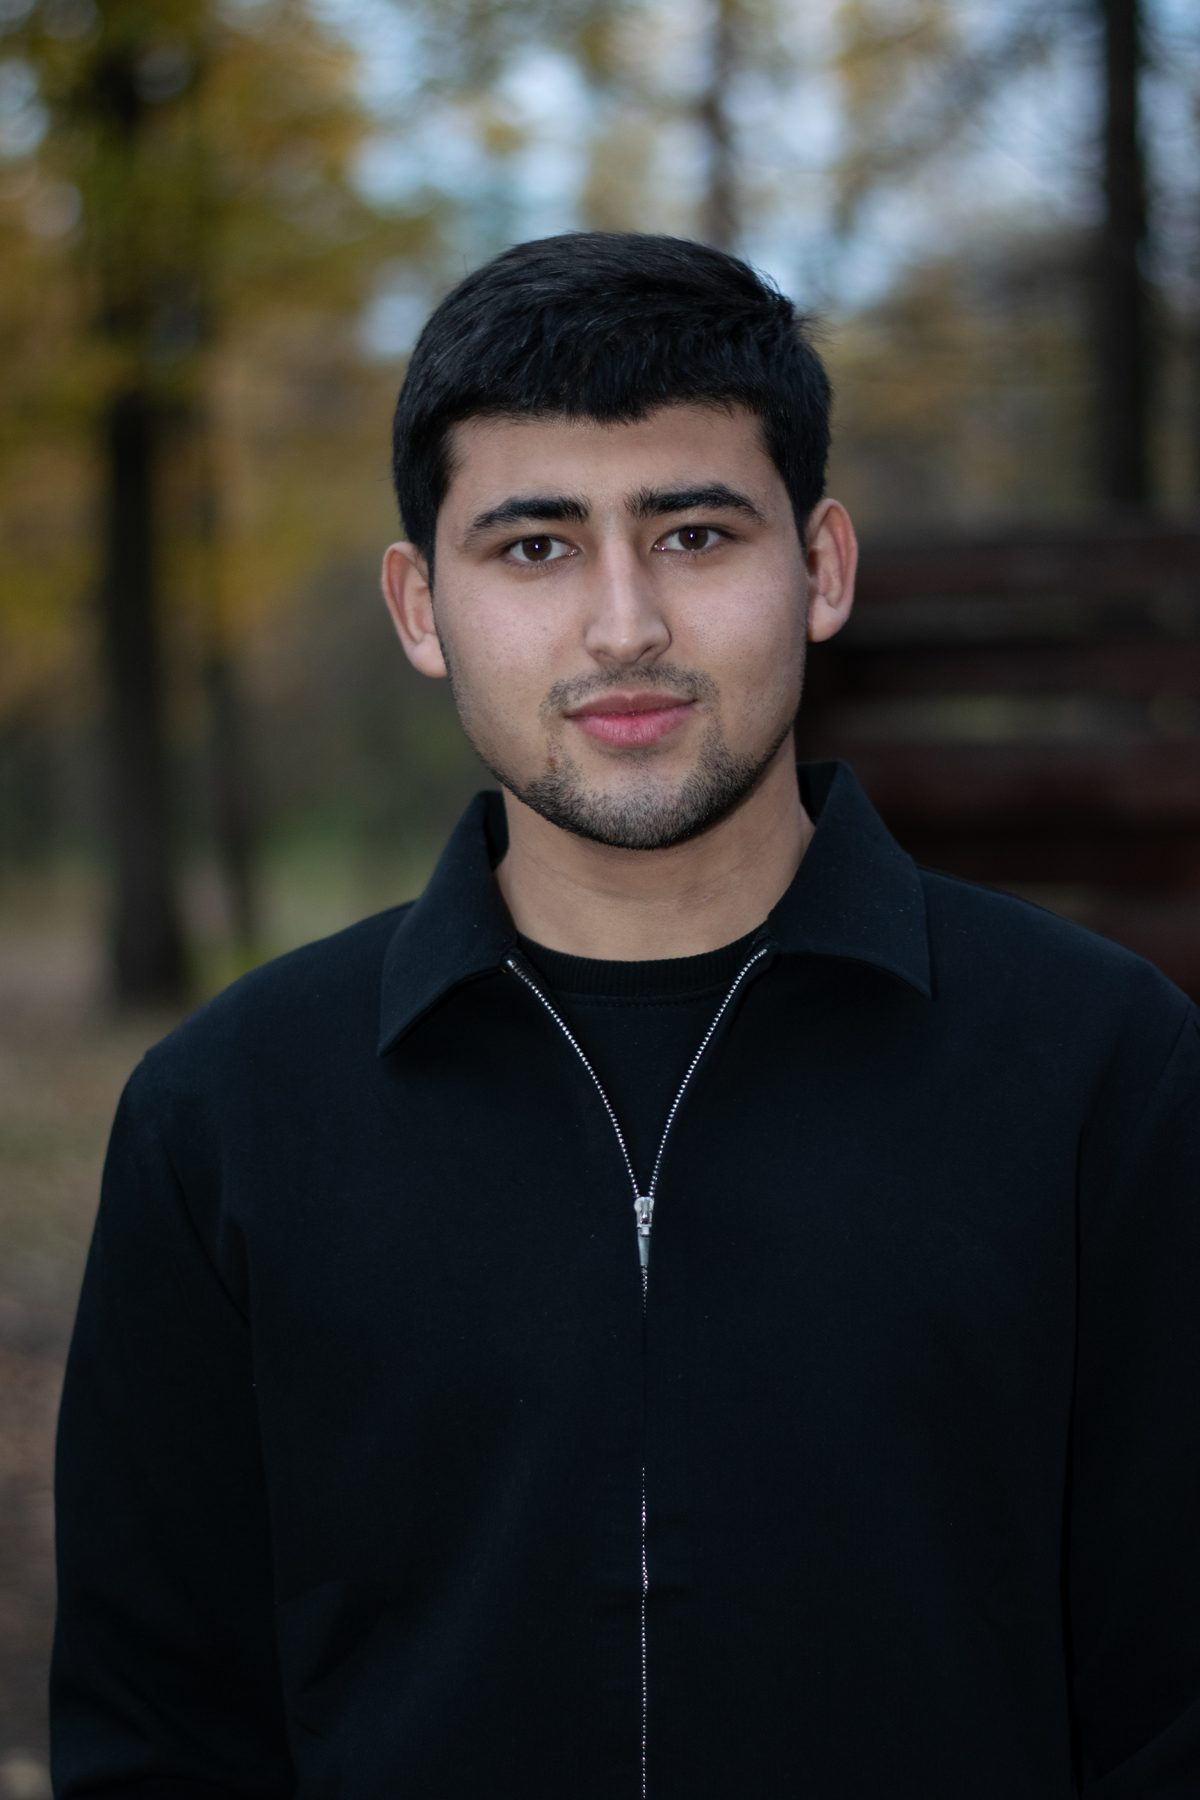
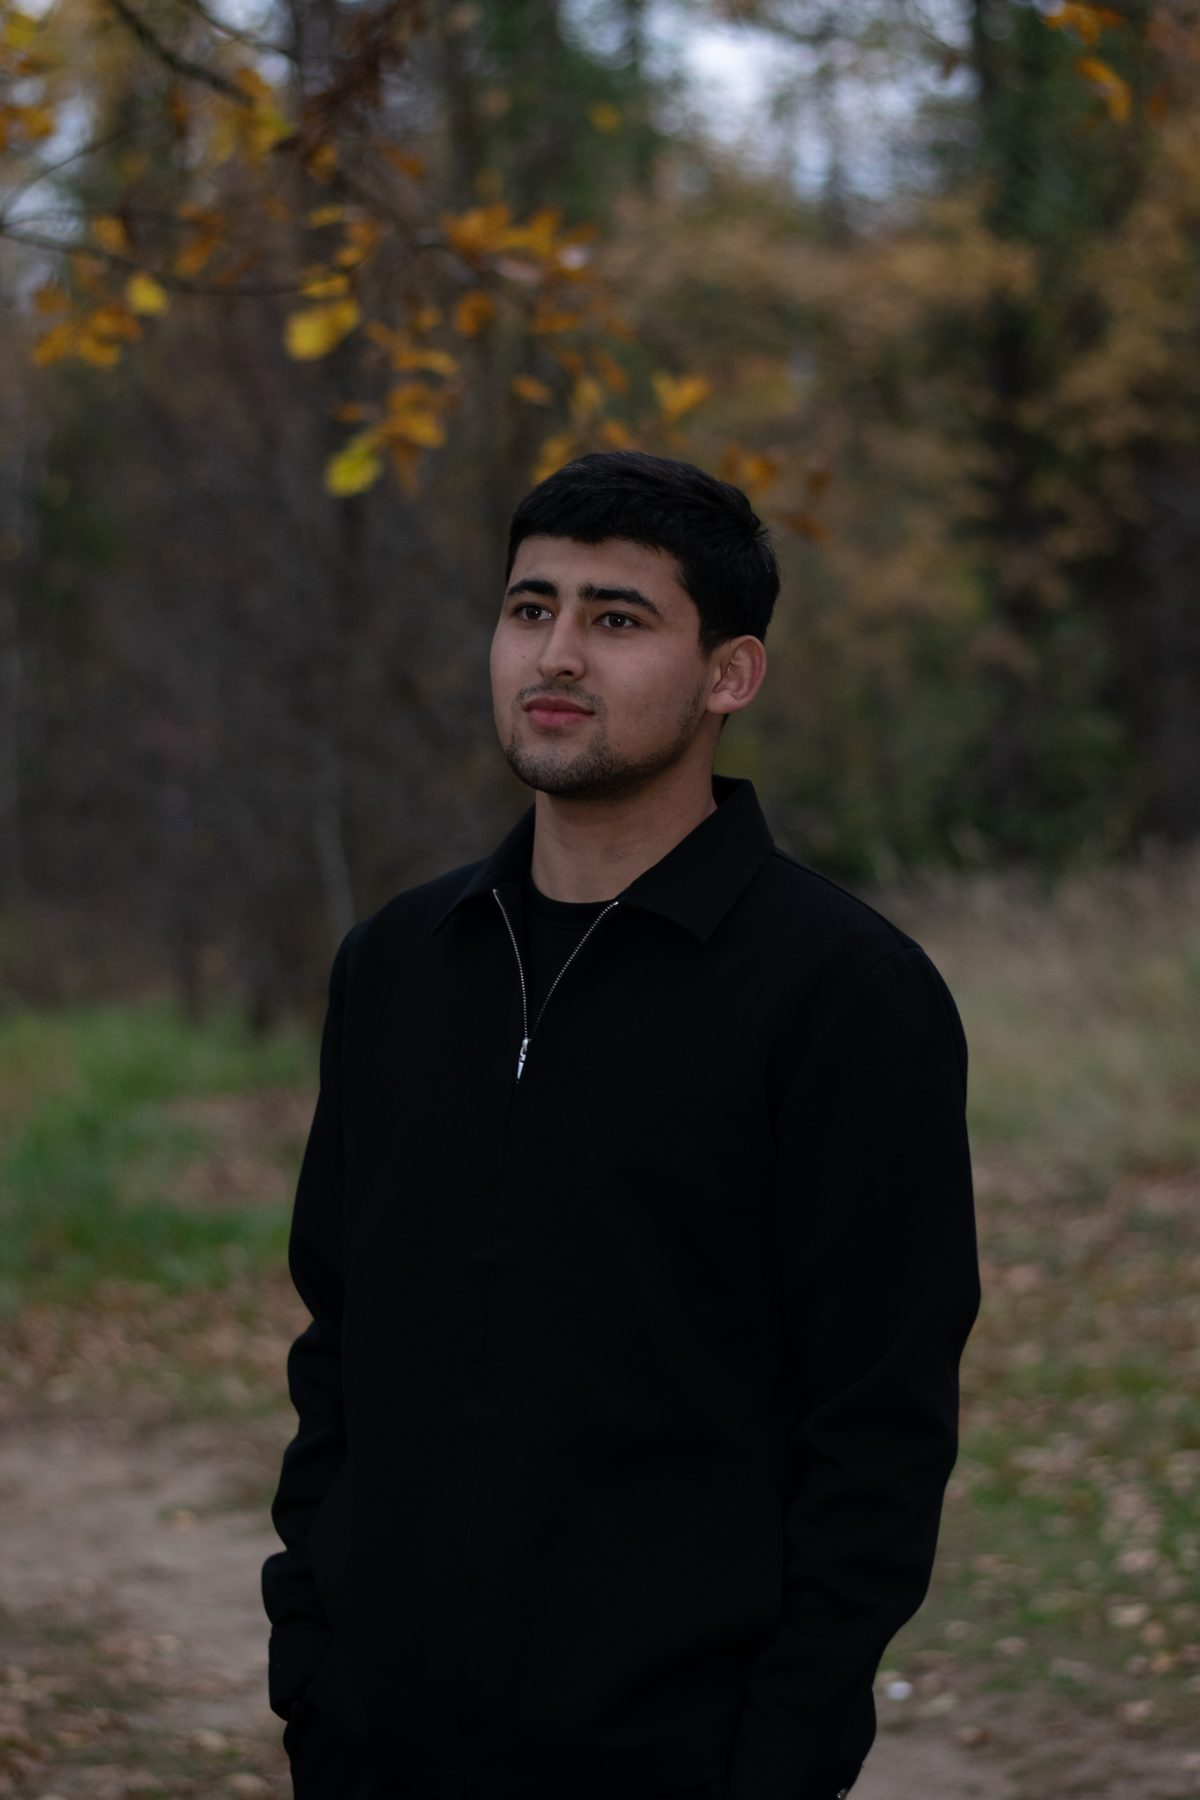
Обновление сайта из редактора

diff --git a/js/gallery-data.js b/js/gallery-data.js
@@ -27,5 +27,5 @@ window.GALLERY = [
   { src: "images/work-09.jpg", alt: "С телефоном у парапета",         tag: "улица",           w: 1200, h: 1800 },
   { src: "images/work-14.jpg", alt: "Московская архитектура",         tag: "Архитектура",     w: 1200, h: 1800 },
   { src: "images/work-15.jpg", alt: "Ночная нежность",                tag: "Ночной портрет",  w: 1200, h: 1800 },
-  { src: "images/work-16.jpg", alt: "Фото в парке",                   tag: "портрет",         w: 1200, h: 1800 }
+  { src: "images/work-16.jpg", alt: "Осенний вечер",                  tag: "портрет",         w: 1200, h: 1800 }
 ];

diff --git a/js/reviews-bot.js b/js/reviews-bot.js
@@ -1,7 +1,7 @@
 /* Файл генерируется автоматически Telegram-ботом. Не редактируйте вручную.
    Отзывы, добавленные в «Редакторе сайта», лежат в js/reviews.js. */
 window.PHOTO_REVIEWS_BOT = {
-  "updated_at": "2026-10-12T09:37:26",
+  "updated_at": "2026-10-12T10:20:57",
   "count": 5,
   "reviews": [
     {
